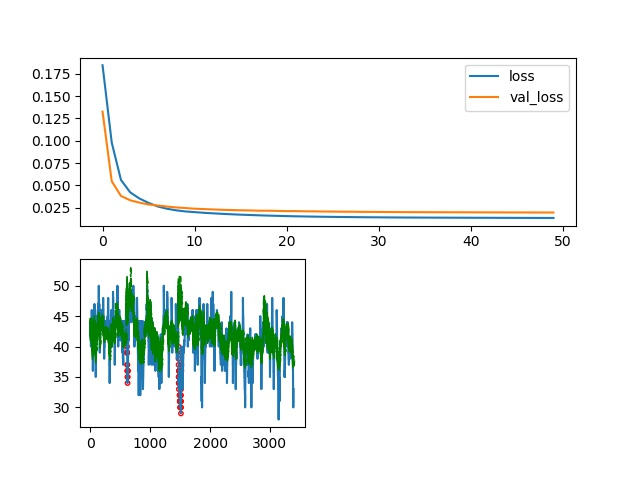
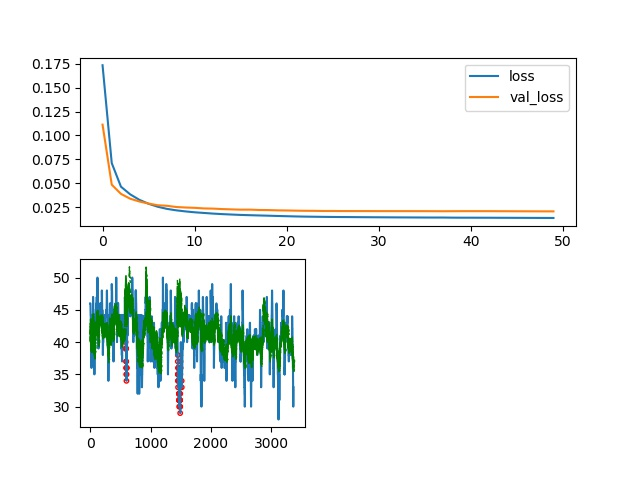
一些变量改动

diff --git a/lstm_Demo/main.py b/lstm_Demo/main.py
@@ -1,3 +1,4 @@
+import math
 from math import sqrt
 from numpy import concatenate
 from matplotlib import pyplot
@@ -69,7 +70,8 @@ class LSTM_Demo:
         # split into train and test sets
         values = reframed.values
 
-        n_train_hours = 13460
+        # n_train_hours = 13460
+        n_train_hours = math.floor(values.shape[0]*0.8)
         train = values[:n_train_hours, :]
         test = values[n_train_hours:, :]
 
@@ -178,10 +180,11 @@ class LSTM_Demo:
         # self.model.add(ResidualBlock(LSTM(160, return_sequences=True)))
         self.model.add(LSTM(220, activation='relu', return_sequences=True))
         self.model.add(TimeDistributed(Dense(40, activation='relu')))
-        self.model.add(TimeDistributed(Dense(12)))
+        self.model.add(TimeDistributed(Dense(self.n_features)))
         self.model.compile(loss='mse', optimizer=Adam(learning_rate=0.0001))
+        self.n_batch=256
         # fit network
-        self.history = self.model.fit(train_X, train_y, epochs=50, batch_size=256, verbose=1,
+        self.history = self.model.fit(train_X, train_y, epochs=30, batch_size=self.n_batch, verbose=1,
                                       validation_data=(test_X, test_y), shuffle=False)
         print(self.history.history)
         print(self.history.history['loss'])
